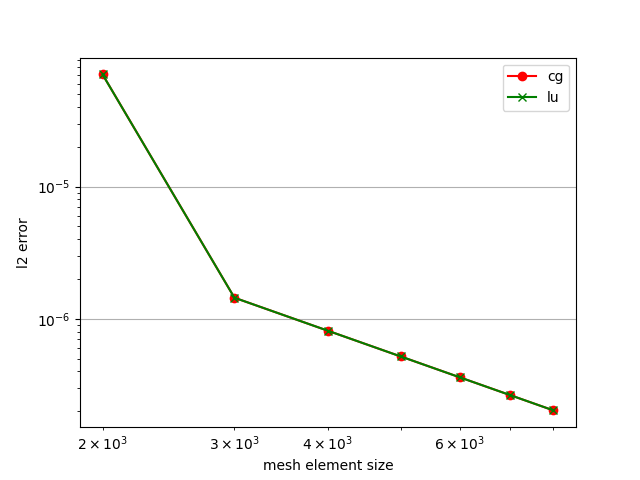
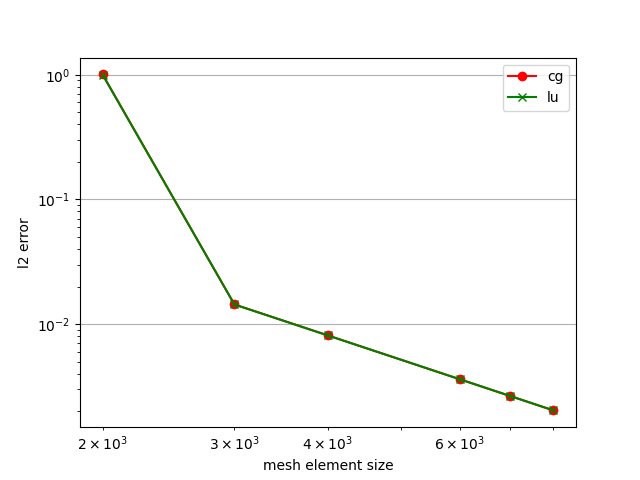
raand

diff --git a/assignment_2.py b/assignment_2.py
@@ -36,7 +36,7 @@ def my_stiffness_matrix_assembler(x):
         A[i+1, i+1] += 1/h
     return A.tocsr()
 
-k = 10*2*np.pi
+k = 100*2*np.pi
 xl = 0                                 # left end point of interval
 xr = 1 
 a = 1
@@ -115,7 +115,7 @@ def compute_error(xi,u_exact):
     return error
 
 def runAll():
-    meshs = np.array([2000,3000,4000,5000,6000,7000,8000])
+    meshs = np.array([2000,3000,4000,6000,7000,8000])
     solvers = np.array(["cg", "lu"])
     errors = np.empty((solvers.shape[0],meshs.shape[0]))
     
@@ -134,6 +134,8 @@ def plot_convergence(meshs, errors, solvers):
     markers = ["o","x"]
     for i,solver in enumerate(solvers):
         plt.loglog(meshs, errors[i], label=solver, marker=markers[i], color=colors[i])
+
+    plt.loglog(meshs,meshs**2)
     plt.grid(visible=True)
     plt.xlabel('mesh element size')
     plt.ylabel('l2 error')
@@ -145,7 +147,7 @@ def main():
     np.random.seed(1)
 
     
-    # xi,x = run_sim(8000, show_animation=False, solver="lu")
+    # xi,x = run_sim(8000, show_animation=True, solver="lu")
     # plot_exact(xi,x)
     # u_exact = np.sin(k*x)*np.exp(-a*k**2*T)
     # error = compute_error(xi, u_exact)

diff --git a/assignment_1.py b/assignment_1.py
@@ -18,12 +18,6 @@ def jacobi_setup(A):
     L = spsp.tril(A,k=-1)
     U = spsp.triu(A,k=1)
     Dinv = inv(D)
-    # print(A.toarray())
-    # print(f"U={U.toarray()}")
-    # print(f"D = {D.toarray()}")
-    # print(f"L= {L.toarray()}")
-    # print((U+D+L).toarray())
-    # print(Dinv.toarray())
 
     return Dinv, L+U
     
